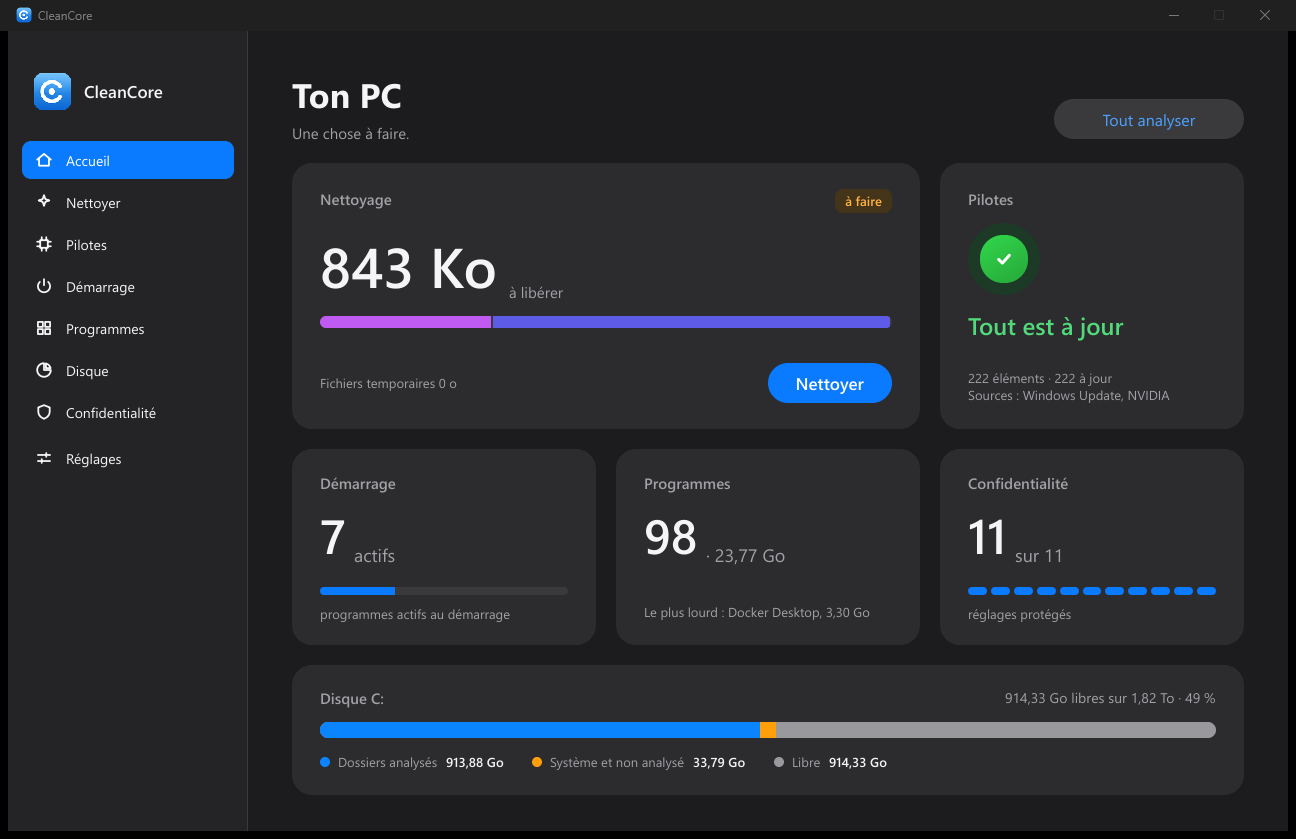
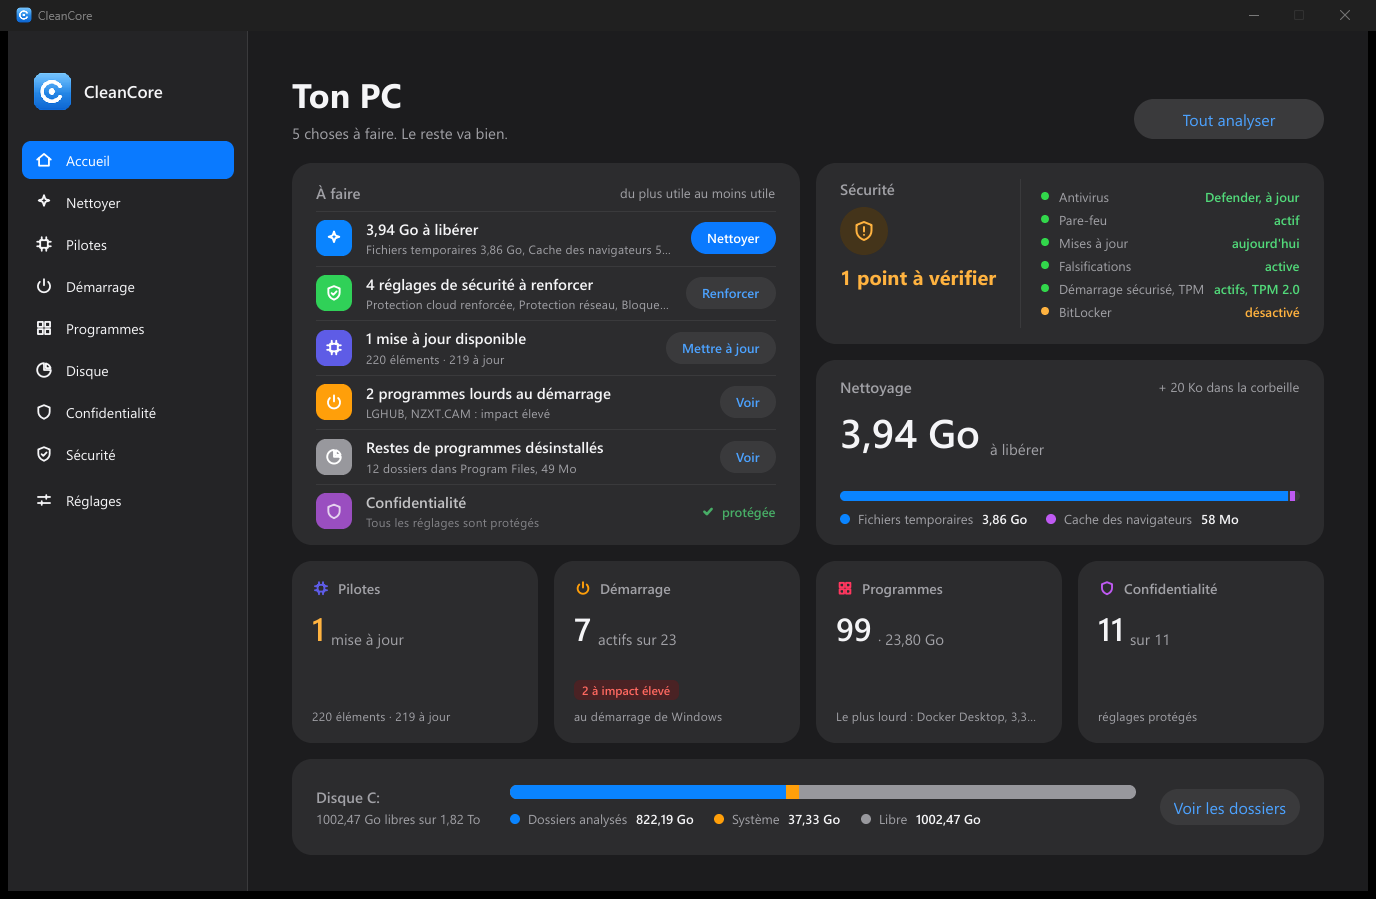
CleanCore 3.4.0 : page à jour (module Sécurité, nouvel accueil)

diff --git a/README.md b/README.md
@@ -4,7 +4,7 @@
 
 # CleanCore
 
-**Un seul logiciel pour entretenir ton PC Windows : nettoyage, pilotes, démarrage, programmes, disque et vie privée.**<br>
+**Un seul logiciel pour entretenir ton PC Windows : nettoyage, pilotes, démarrage, programmes, disque, vie privée et sécurité.**<br>
 Sans publicité, sans abonnement, sans compte.
 
 [![Dernière version](https://img.shields.io/github/v/release/LeKdeX/cleancore-releases?color=0071e3&label=version)](https://github.com/LeKdeX/cleancore-releases/releases/latest)
@@ -19,25 +19,26 @@ Sans publicité, sans abonnement, sans compte.
 
 </div>
 
-## Six modules, une seule fenêtre
+## Sept modules, une seule fenêtre
 
 | Module | Ce qu'il fait |
 |---|---|
-| **Nettoyer** | Fichiers temporaires, caches, journaux, shaders, corbeille. Tu vois ce qui sera supprimé avant de confirmer. |
-| **Pilotes** | Inventaire de tes pilotes, mises à jour via Windows Update et NVIDIA, sauvegarde avant installation, historique. |
-| **Démarrage** | Les programmes qui se lancent avec Windows (registre, dossiers Démarrage, applications du Store). Recherche et filtre Tous / Actifs / Désactivés. Rien n'est supprimé, tu peux tout réactiver. |
-| **Programmes** | Les programmes installés, triés par taille, désinstallation en lot. |
-| **Disque** | Où part l'espace, dossier par dossier, avec l'espace libre du volume. Les éléments vont à la corbeille. |
+| **Nettoyer** | Fichiers temporaires, caches, journaux, shaders, corbeille (avec un aperçu de ce qu'elle contient). Tu vois ce qui sera supprimé avant de confirmer. |
+| **Pilotes** | Inventaire de tes pilotes, mises à jour via Windows Update et NVIDIA, sauvegarde avant installation, historique. Si une mise à jour échoue, la raison est expliquée. |
+| **Démarrage** | Les programmes qui se lancent avec Windows (registre, dossiers Démarrage, applications du Store), avec leur impact sur le démarrage (faible, moyen, élevé). Rien n'est supprimé, tu peux tout réactiver. |
+| **Programmes** | Les programmes installés, triés par taille, désinstallation en lot : chaque désinstalleur attend la fin du précédent, jeux Steam compris. |
+| **Disque** | Où part l'espace, dossier par dossier. Les éléments vont à la corbeille ; les restes de programmes désinstallés peuvent être supprimés, et chaque refus dit quoi faire à la place. |
 | **Confidentialité** | 11 réglages de vie privée de Windows, avec retour exact à l'état d'origine. |
+| **Sécurité** | L'état de ta protection (antivirus, pare-feu, mises à jour, TPM, BitLocker), une analyse avec Windows Defender et son avancement, et 10 réglages pour renforcer Windows, chacun expliqué au survol. |
 
-L'**Accueil** résume le tout : combien de Go à libérer, si les pilotes sont à jour, combien de programmes démarrent avec Windows, combien d'espace reste libre.
+L'**Accueil** dit d'abord ce qu'il reste à faire, du plus utile au moins utile, puis résume chaque module. Chaque ligne et chaque tuile ouvre la bonne page.
 
 ## Pourquoi CleanCore
 
 - **Ultra léger** : un seul fichier d'environ 10 Mo, 0 % de CPU au repos.
 - **Prudent** : une confirmation avant d'agir, des sauvegardes avant de modifier, des éléments système protégés, et la corbeille plutôt que la suppression définitive.
 - **Sobre** : aucune télémétrie, aucun service en tâche de fond. Seule connexion réseau hors pilotes : la recherche d'une nouvelle version au démarrage, désactivable.
-- **Cohérent** : même fenêtre, mêmes boutons, même thème (clair, sombre ou automatique selon Windows, au choix dans les Réglages) pour les six modules.
+- **Cohérent** : même fenêtre, mêmes boutons, même thème (clair, sombre ou automatique selon Windows, au choix dans les Réglages) pour les sept modules.
 
 ## Téléchargement
 
@@ -57,7 +58,8 @@ Au démarrage, CleanCore regarde s'il existe une nouvelle version et affiche un 
 - **Suppression par handle vérifié**, liens et jonctions refusés.
 - **Désinstallation** : commande MSI reconstruite depuis l'identifiant, programmes de ton compte lancés sans droits élevés.
 - **Registre** : liste fixe de réglages, avec sauvegarde de l'état d'origine.
-- **Disque** : corbeille uniquement, dossiers système et personnels protégés.
+- **Disque** : corbeille uniquement, dossiers système et personnels protégés ; dans Program Files, seuls les restes de programmes désinstallés.
+- **Sécurité** : l'antivirus reste Windows Defender, piloté par ses propres commandes ; état d'origine sauvegardé avant chaque réglage, jamais d'exclusion ajoutée.
 - Chaque Release contient `SHA256SUMS.txt` pour contrôler ton téléchargement :
 
 ```powershell
